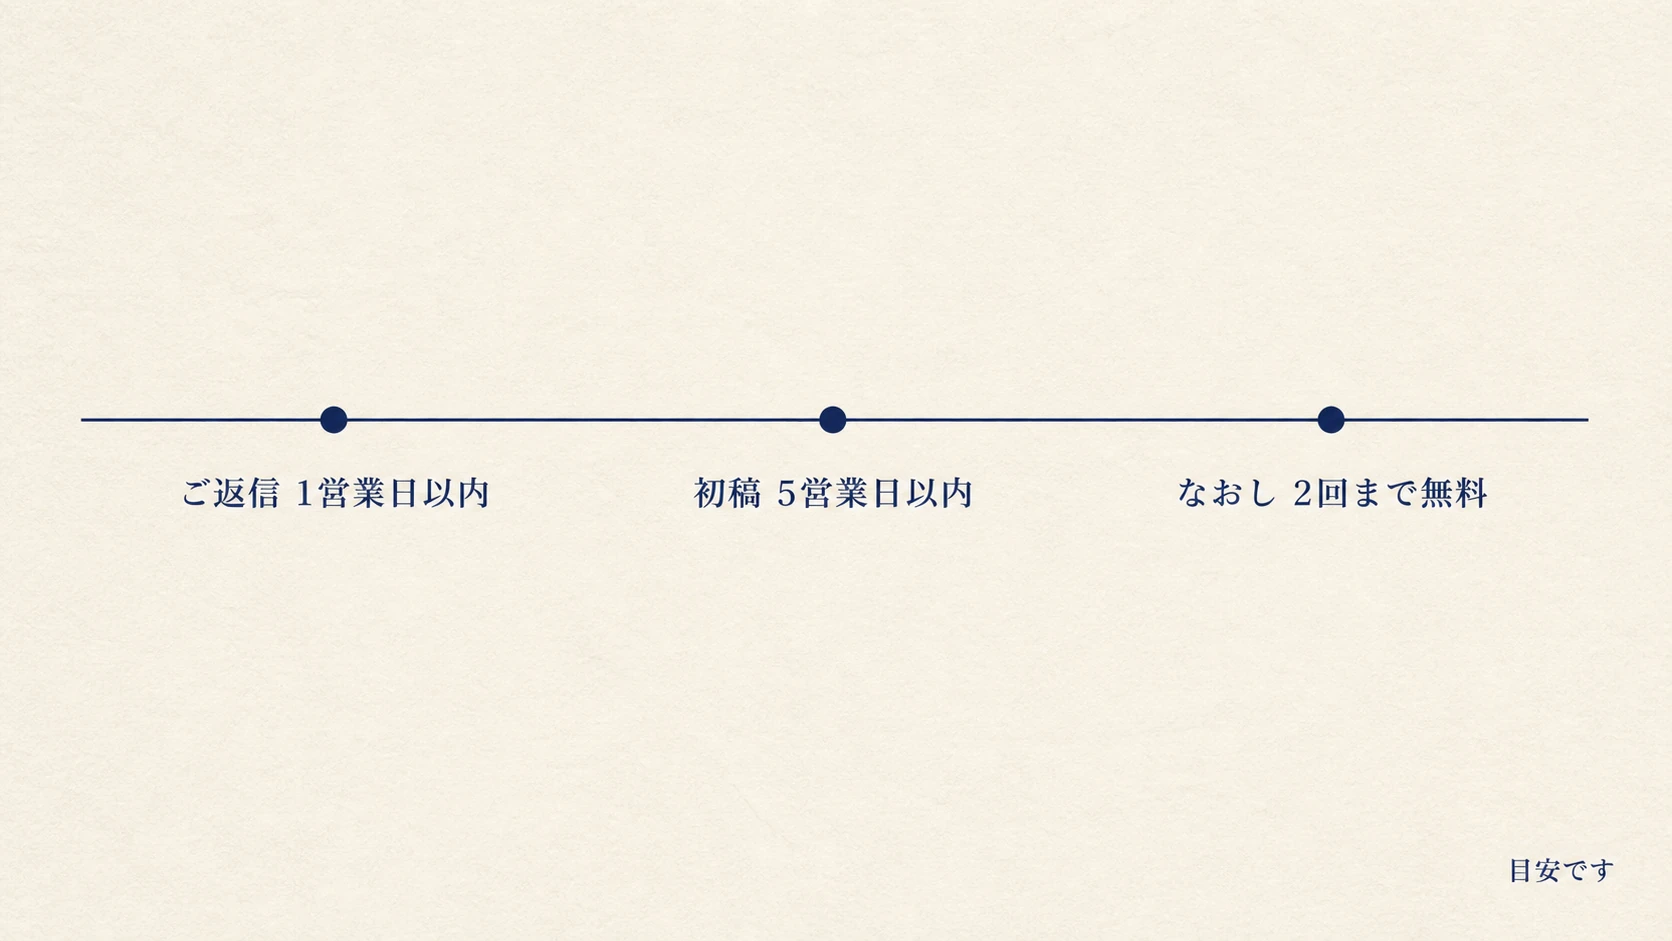
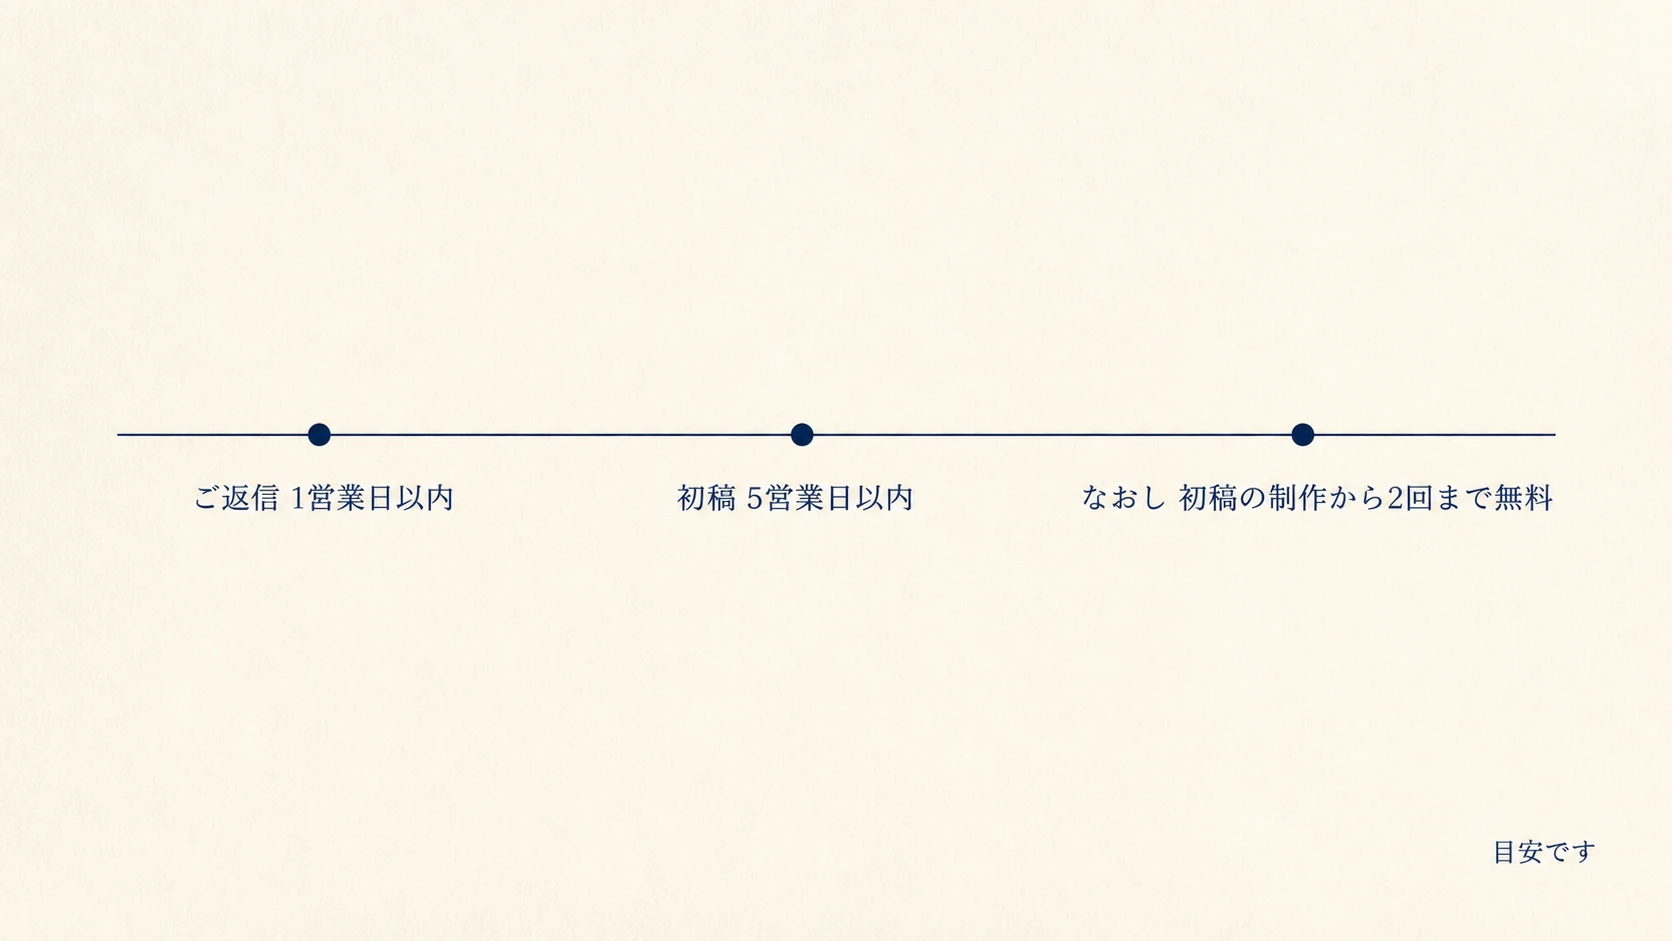
進め方の目安の図から、対象を書かない「無料」を無くす
「なおし」の項目を「なおし 初稿の制作から2回まで無料」に作り直し、無料の対象（初稿の制作）を焼き込み文字と説明文の両方に添える。命令文をあわせて更新し、ページに出るすべての「無料」に対象語が24字以内にあることを、レンダリングしたページの本文と画像の説明文から一件残らず確かめる試験を追加した。

Changed region(s): [[0.0622, 0.4315, 0.933, 0.5547], [0.8708, 0.8937, 0.9641, 0.9554]]

diff --git a/src/lp/__tests__/forbidden-terms.test.ts b/src/lp/__tests__/forbidden-terms.test.ts
@@ -1,5 +1,8 @@
 import { readdirSync, readFileSync, statSync } from 'node:fs'
 import { join, relative, resolve } from 'node:path'
+import { render } from '@testing-library/react'
+import { createElement } from 'react'
+import App from '../App'
 
 // /lp は「契約」に類する語を一律に使わない。無料の境目は本文で語ることで伝え、
 // 契約手続きを連想させる言葉には頼らない。
@@ -25,6 +28,15 @@ const BRAND_MEANING_WORDS = [
   '力の流れ',
   '最も強い形',
 ]
+
+// 台帳（catenaria-self.gate.json の freeScopePairing）と同じ規則。対象を書かない
+// 「無料」は、公開して使い続けるところまで無料だと読ませる。ページが実際に表示する文字
+// （画像の説明文を含む）の「無料」ごとに、前後24字以内に対象語のいずれかを求める。
+// 台帳側の判定は最初の1件で調べるのをやめるため、ここでは一件残らず確かめる。
+const FREE_WORD = '無料'
+const FREE_OBJECT_WORDS = ['制作', '作る', 'つくる', 'お渡し', '公開', 'お使い']
+const FREE_CONTEXT_WINDOW = 24
+const TEXT_ATTRIBUTES = ['alt', 'aria-label', 'title', 'placeholder']
 
 const ROOT = resolve(import.meta.dirname, '../../..')
 
@@ -69,6 +81,45 @@ function findViolations(findWords: (content: string) => string[]): string[] {
   )
 }
 
+// 台帳の判定と同じ正規化（全角半角の統一、空白の除去）。
+function normalizeForFreeCheck(text: string): string {
+  return text
+    .normalize('NFKC')
+    .replace(/\u200B|\u200C|\u200D|\uFEFF/g, '')
+    .replace(/\s+/g, '')
+}
+
+// ページに実際に表示される文字を、台帳の判定と同じ組み立て方で1本の文字列にする
+// （画面の本文＋ title ・ meta の説明文＋画像の説明文などの属性）。
+function renderedPageCorpus(): string {
+  const { container } = render(createElement(App))
+  const attributeText = Array.from(
+    container.querySelectorAll(TEXT_ATTRIBUTES.map((name) => `[${name}]`).join(',')),
+  ).flatMap((el) => TEXT_ATTRIBUTES.map((name) => el.getAttribute(name) ?? ''))
+  const indexHtml =
+    TARGET_CONTENTS.find(({ path }) => path.endsWith('lp/index.html'))?.content ?? ''
+  const title = indexHtml.match(/<title>([^<]*)<\/title>/)?.[1] ?? ''
+  const metaContents = [
+    ...indexHtml.matchAll(
+      /<meta[^>]+(?:name="description"|property="og:[^"]+")[^>]+content="([^"]*)"/g,
+    ),
+  ].map((m) => m[1])
+  return normalizeForFreeCheck(
+    [container.textContent ?? '', title, ...metaContents, ...attributeText].join('\n'),
+  )
+}
+
+function findFreeWordsWithoutObject(corpus: string): string[] {
+  return [...corpus.matchAll(new RegExp(FREE_WORD, 'g'))].flatMap((m) => {
+    const index = m.index ?? 0
+    const around = corpus.slice(
+      Math.max(0, index - FREE_CONTEXT_WINDOW),
+      index + FREE_WORD.length + FREE_CONTEXT_WINDOW,
+    )
+    return FREE_OBJECT_WORDS.some((word) => around.includes(word)) ? [] : [`…${around}…`]
+  })
+}
+
 it('/lp が読み込む一式に「契約」に関する語が無い', () => {
   const violations = findViolations((content) =>
     CONTRACT_WORDS.filter((word) => content.includes(word)),
@@ -85,5 +136,10 @@ it('/lp が読み込む一式に、見た目の指示書の言い回しが事実
   const violations = findViolations((content) =>
     BRAND_MEANING_WORDS.filter((word) => content.includes(word)),
   )
+  expect(violations).toEqual([])
+})
+
+it('/lp に出るすべての「無料」に、対象が添えられている', () => {
+  const violations = findFreeWordsWithoutObject(renderedPageCorpus())
   expect(violations).toEqual([])
 })

diff --git a/src/lp/sections/Offer.tsx b/src/lp/sections/Offer.tsx
@@ -44,7 +44,7 @@ export function Offer() {
         src="/lp/pace.webp"
         width={1672}
         height={941}
-        alt="ご返信 1営業日以内、初稿 5営業日以内、なおし 2回まで無料、目安です。三つの目安を、一本の線の上に並べた図解"
+        alt="ご返信 1営業日以内、初稿 5営業日以内、なおし 初稿の制作から2回まで無料、目安です。三つの目安を、一本の線の上に並べた図解"
         loading="lazy"
       />
       <FullImage
